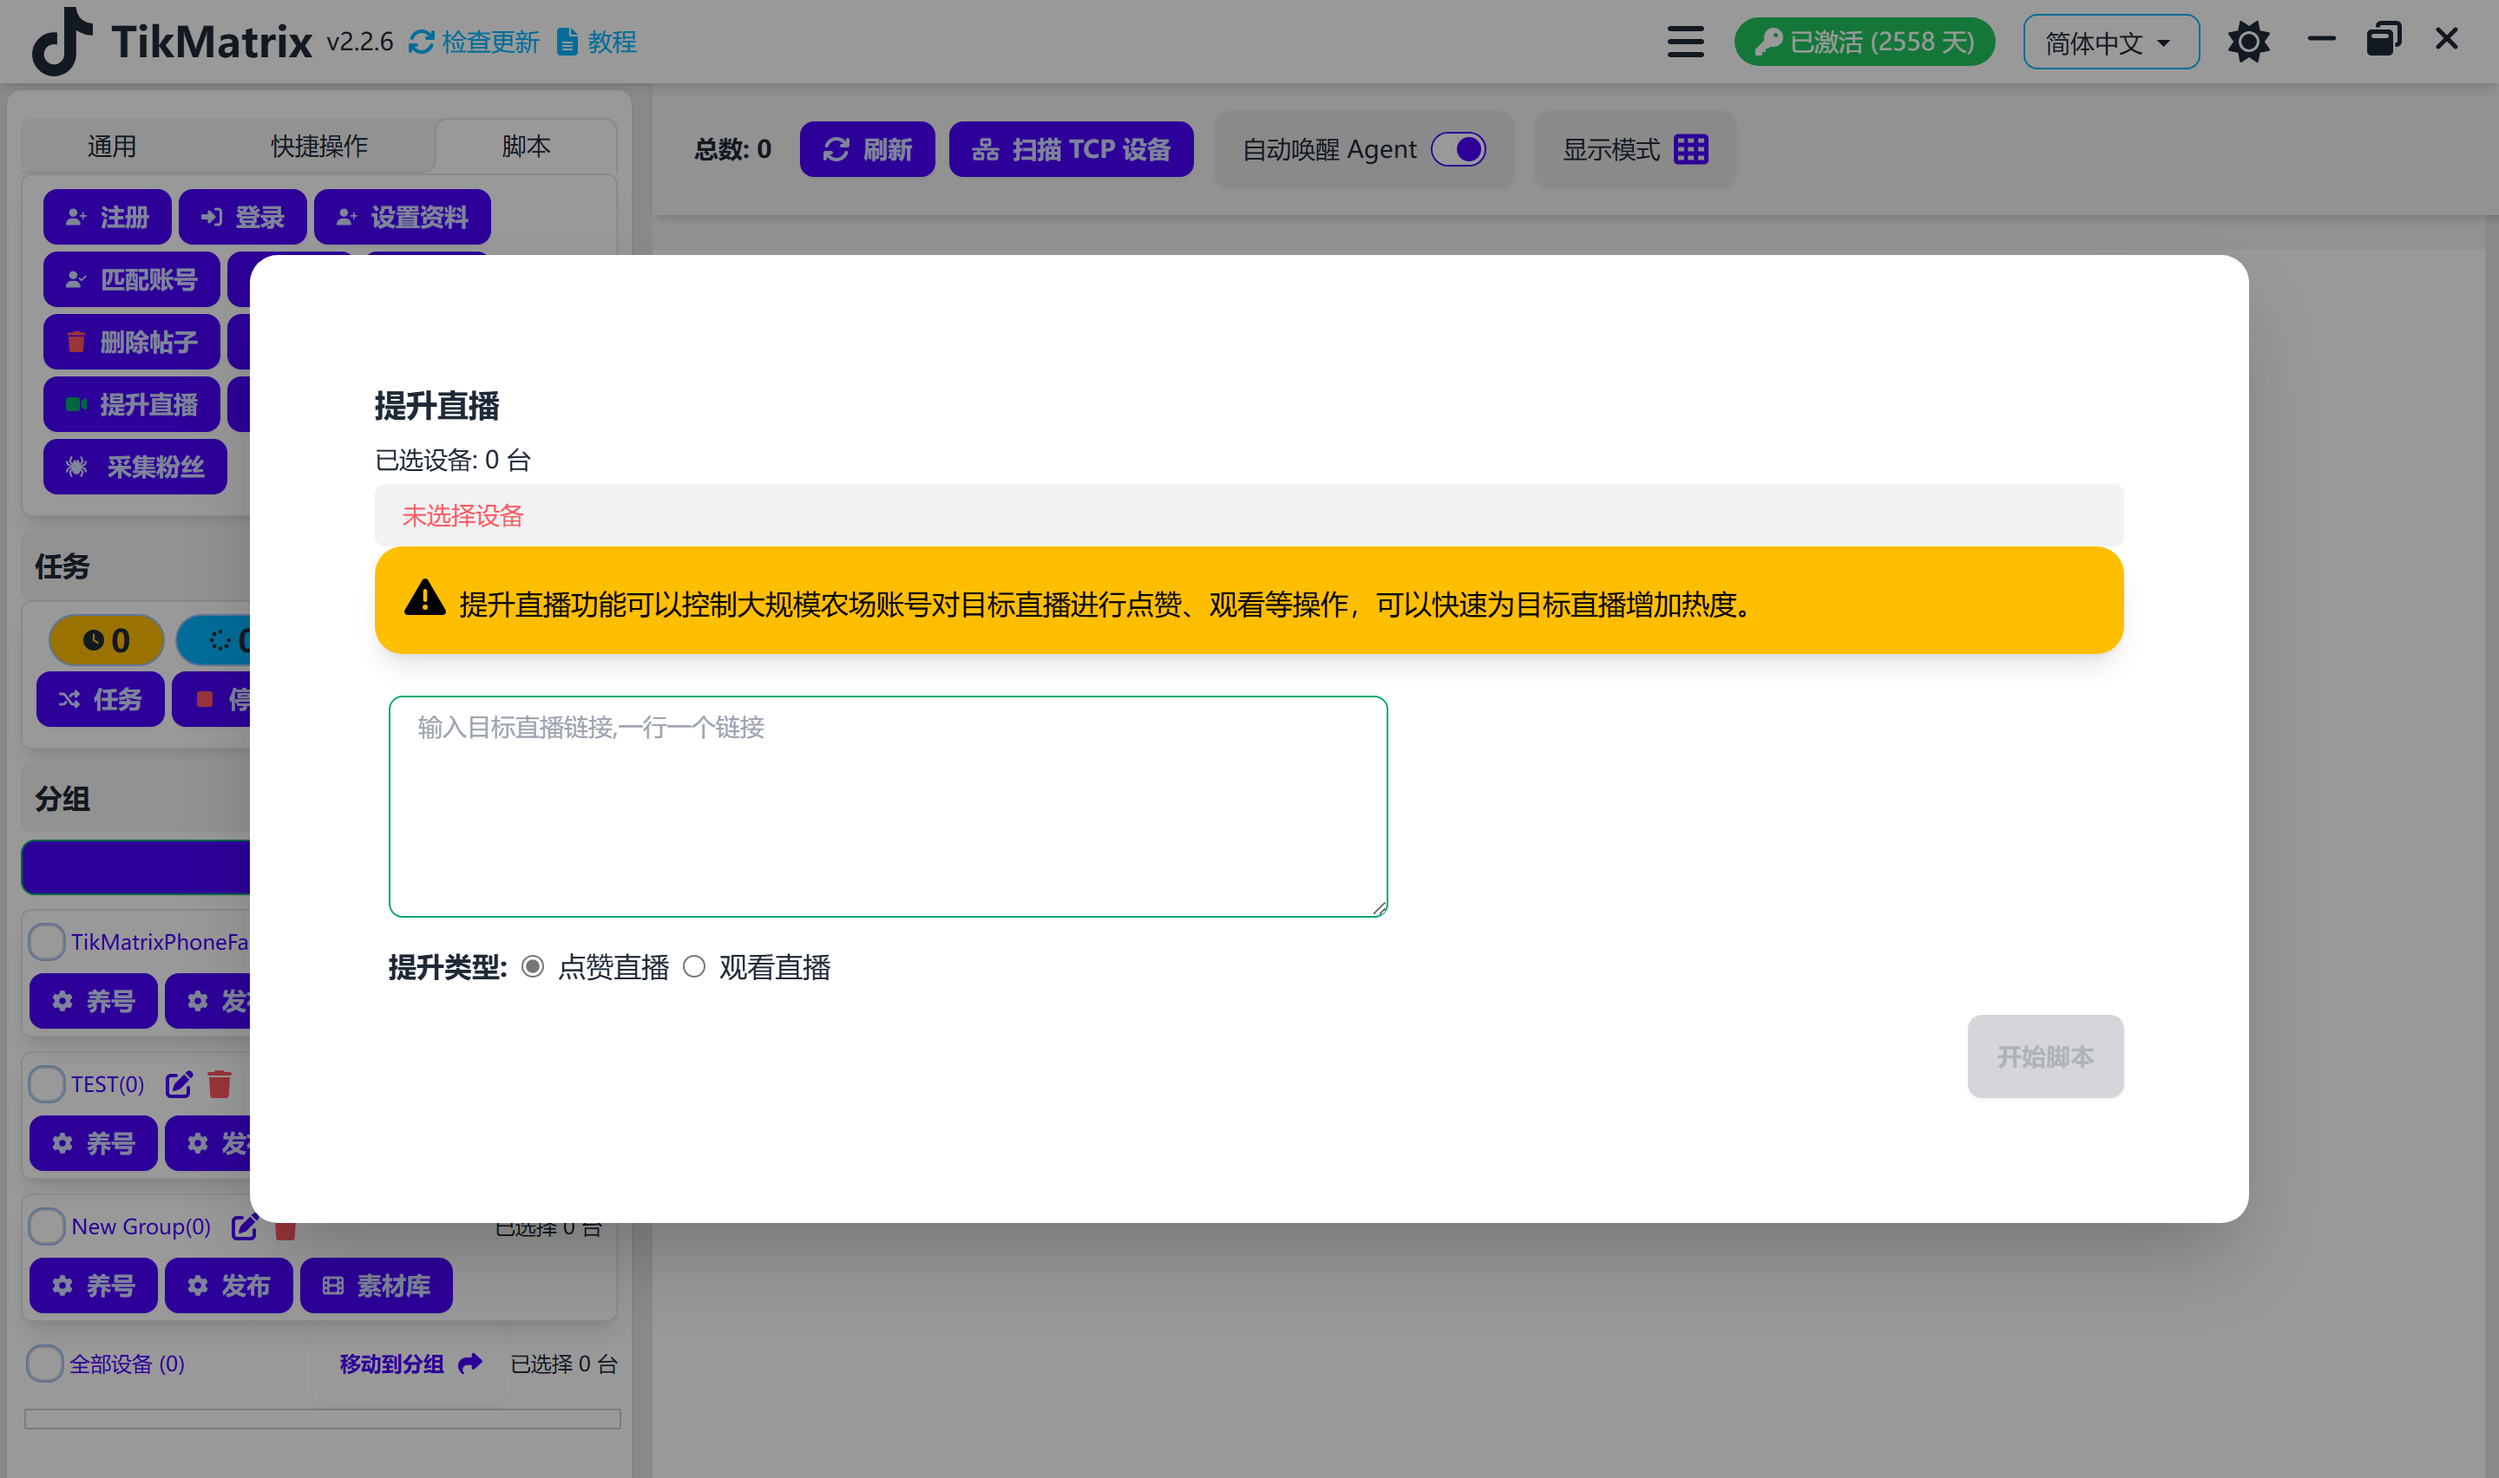
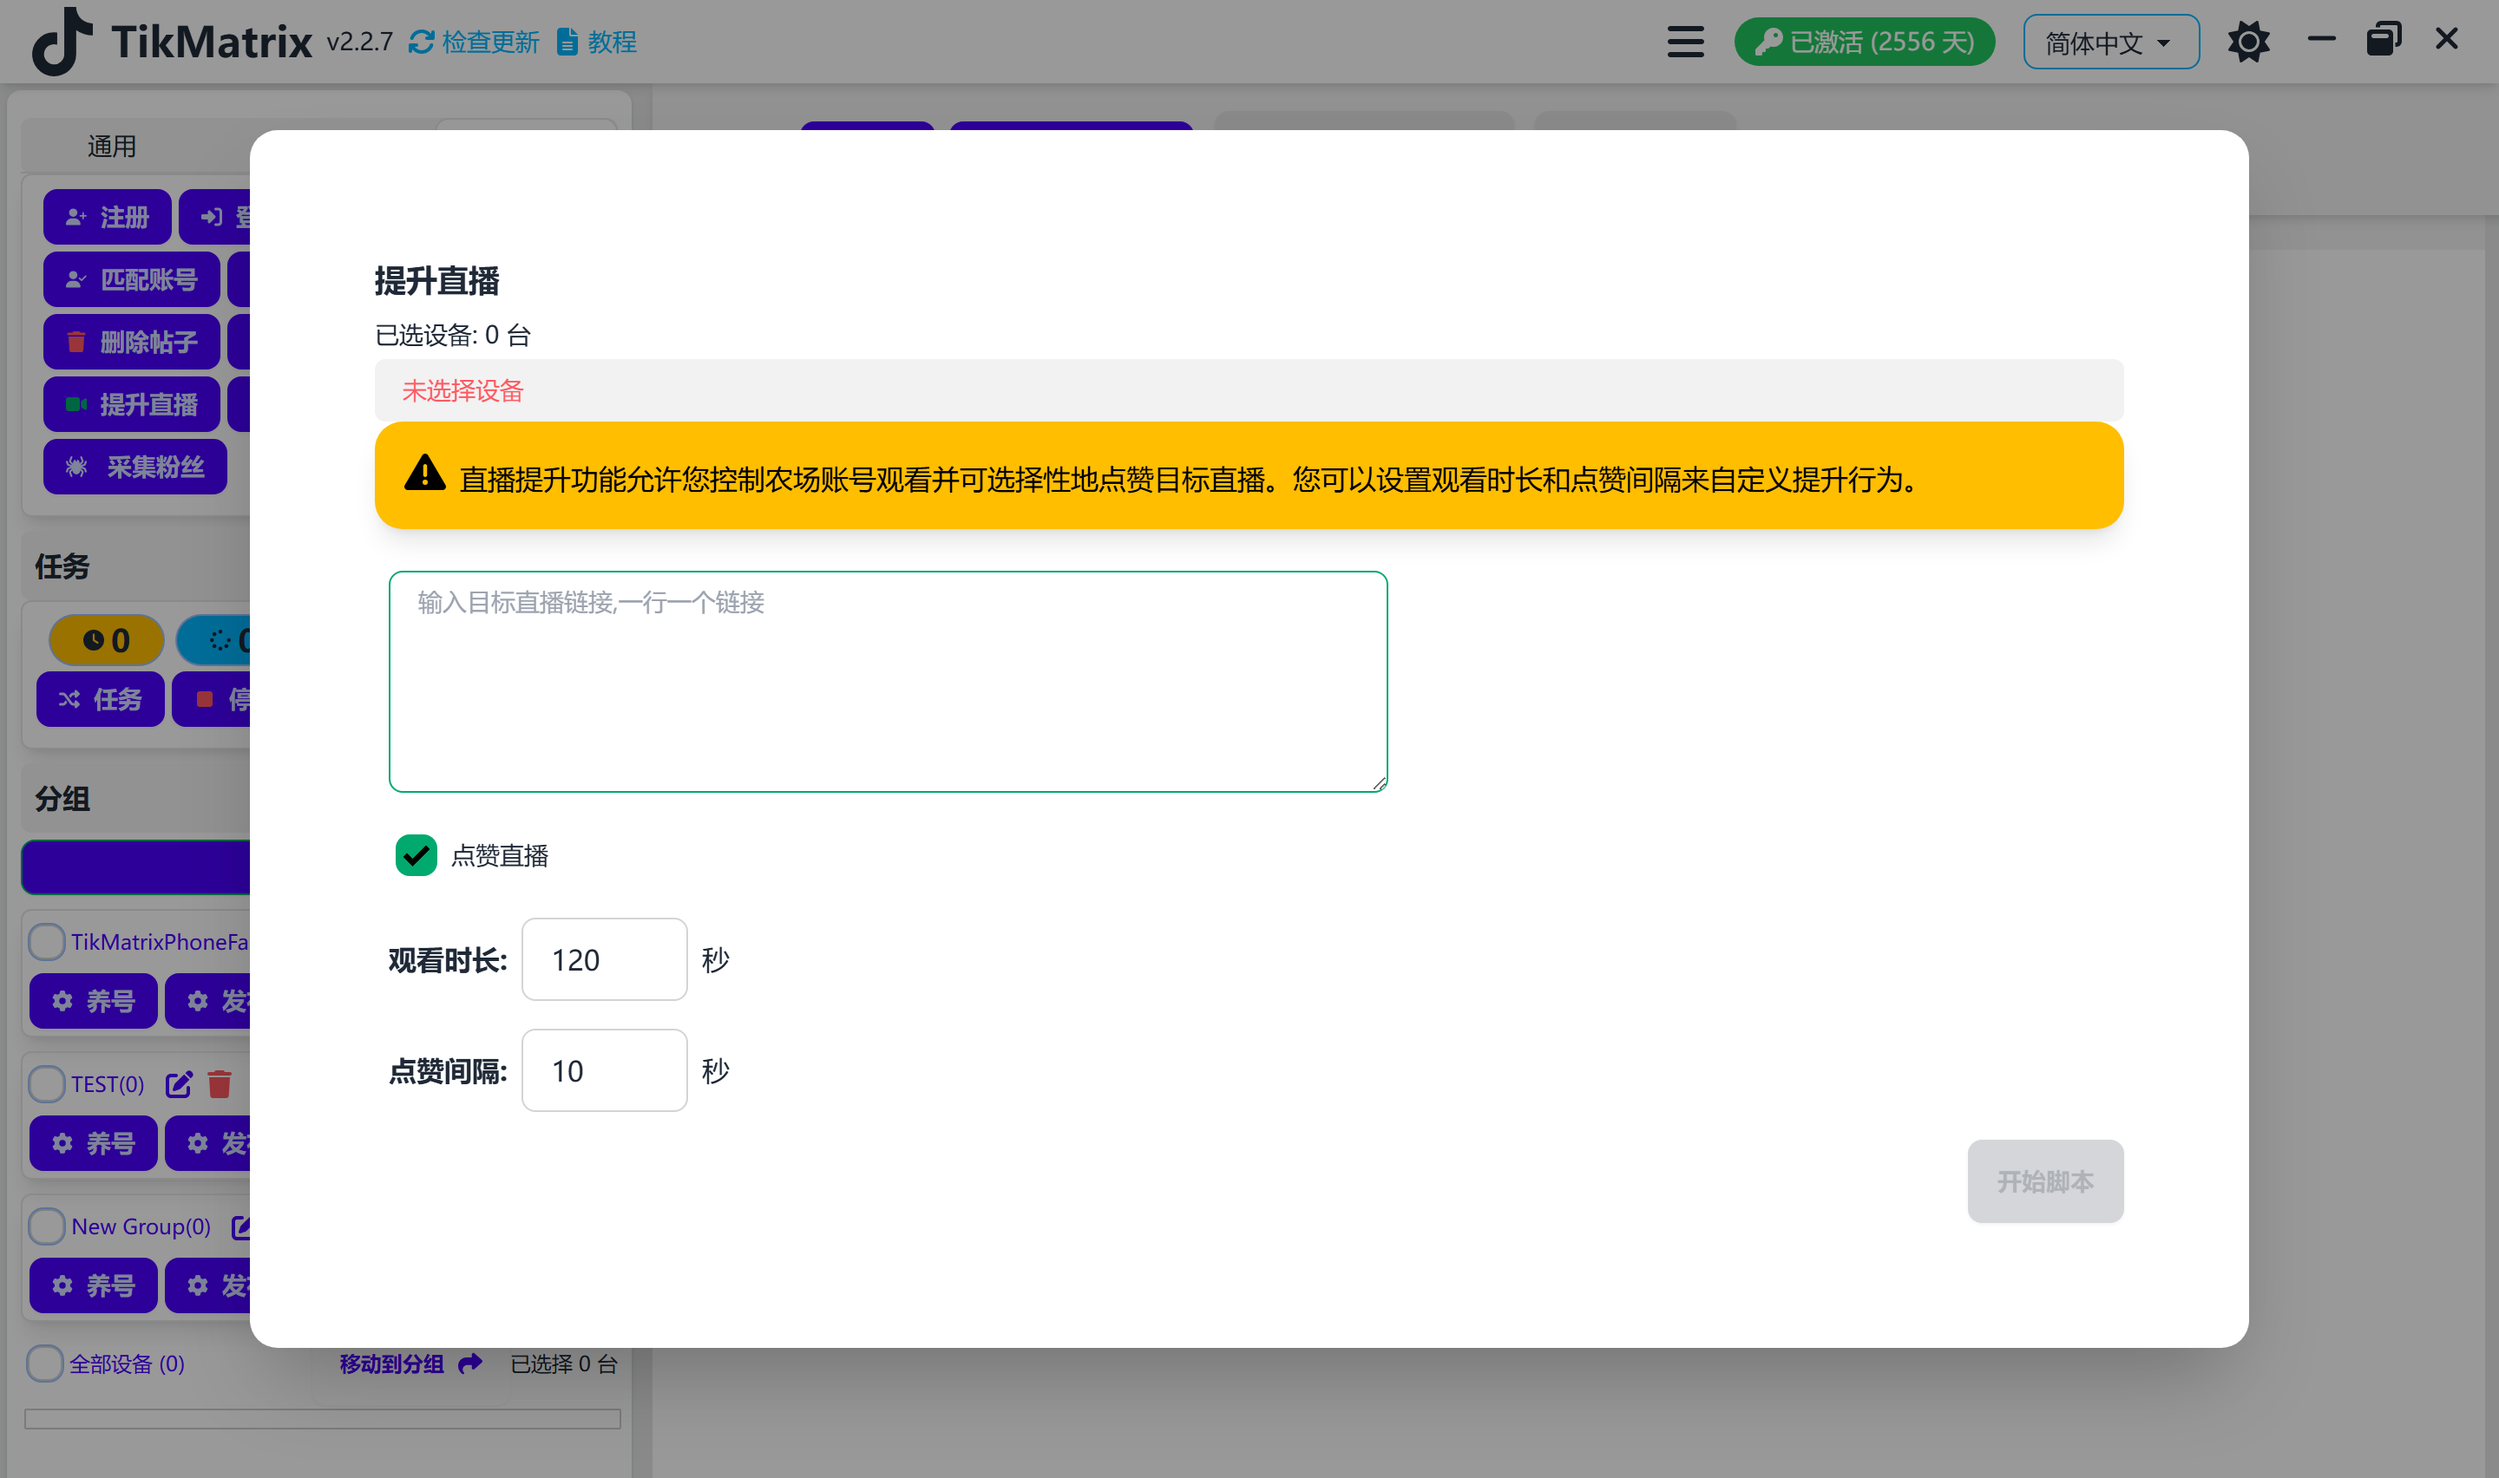
1

diff --git a/i18n/zh-Hans/docusaurus-plugin-content-docs/current/tutorial-scripts/13.boost-lives.md b/i18n/zh-Hans/docusaurus-plugin-content-docs/current/tutorial-scripts/13.boost-lives.md
@@ -4,7 +4,7 @@ sidebar_position: 12
 
 # 提升直播
 
-提升直播脚本用于对多个直播进行点赞、观看等操作。
+直播提升功能允许您控制农场账号观看并可选择性地点赞目标直播。您可以设置观看时长和点赞间隔来自定义提升行为。
 
 ## 步骤
 
@@ -13,7 +13,7 @@ sidebar_position: 12
 3. 点击 `脚本` - `提升直播` 按钮。
 4. 输入目标直播链接，每行一个链接。
 5. 选择要操作的设备。
-6. 选择要操作的类型，点赞或观看。
+6. 设置观看时长和点赞间隔。
 7. 点击 `开始` 按钮。
 
 ## 注意事项

diff --git a/docs/tutorial-scripts/13.boost-lives.md b/docs/tutorial-scripts/13.boost-lives.md
@@ -4,7 +4,7 @@ sidebar_position: 12
 
 # Boost Lives
 
-Boost Lives script is used to like, view on target live streams.
+The live boost script allows you to control farm accounts to watch and optionally like target live streams. You can set the viewing duration and like interval to customize the boost behavior.
 
 ## Steps
 
